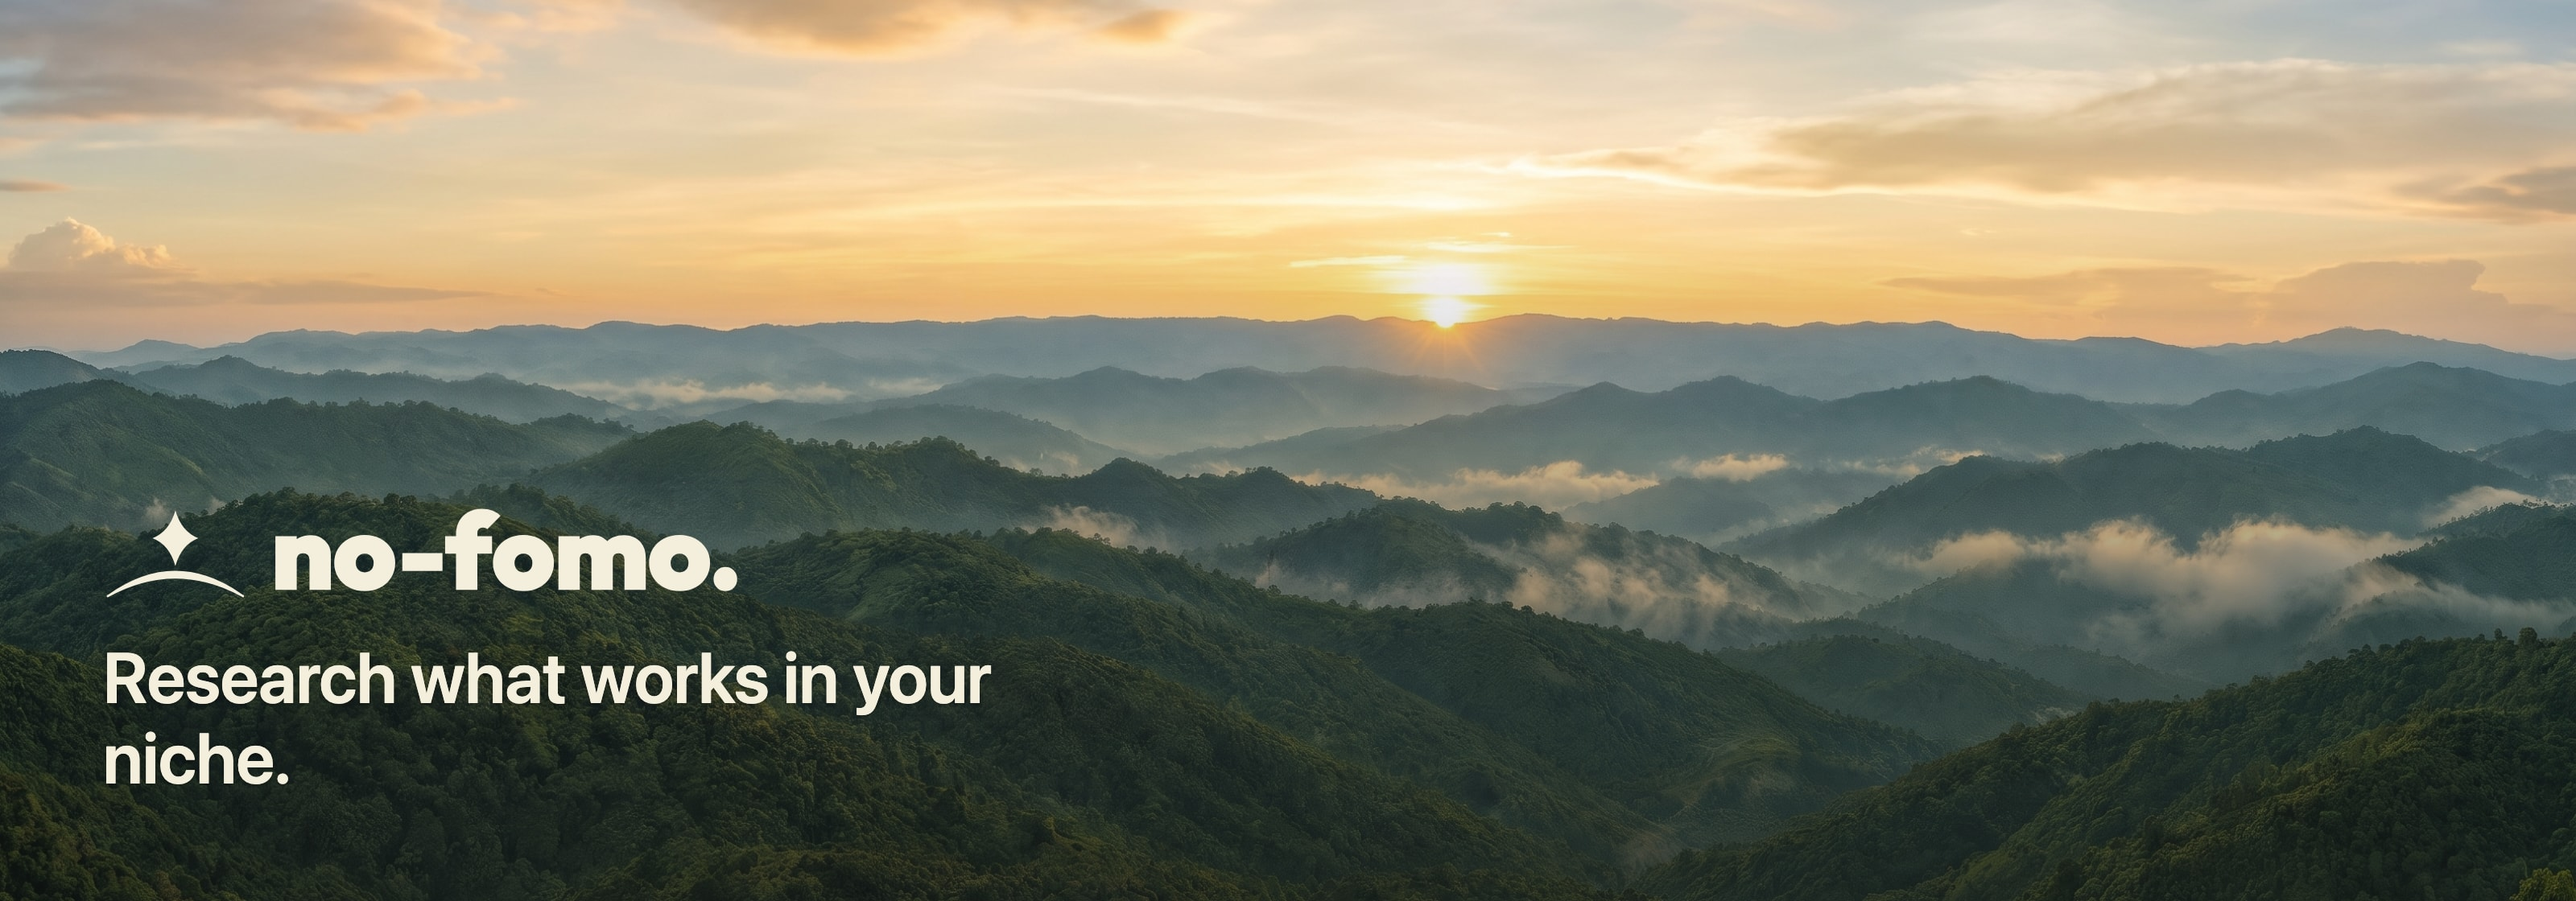
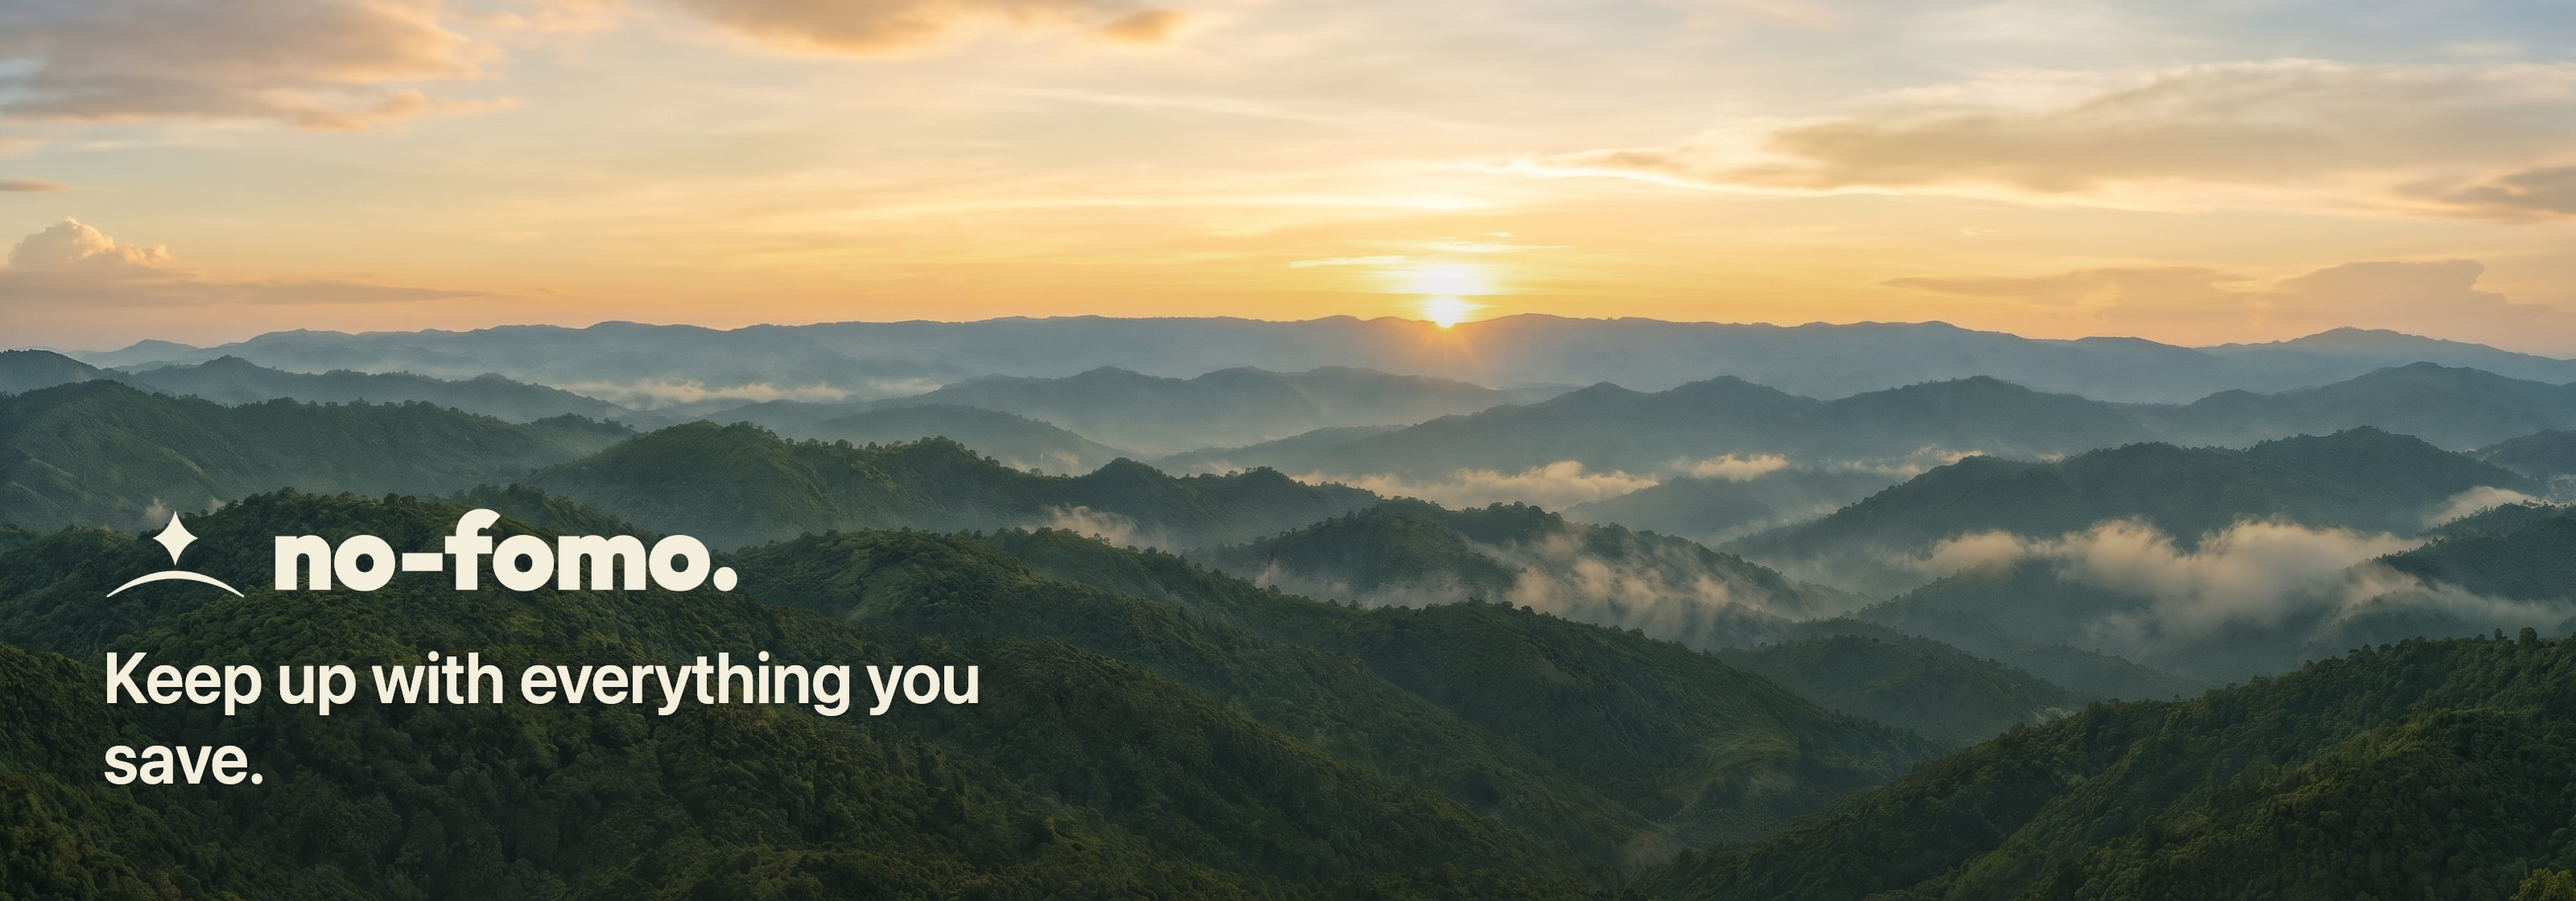
docs: the message is 'Keep up with everything you save.'
README tagline and intro, package description, runbook, banner and social preview.

Changed region(s): [[0.0312, 0.7188, 0.375, 0.8125], [0.0312, 0.8125, 0.125, 0.875]]

diff --git a/docs/RELEASE.md b/docs/RELEASE.md
@@ -89,7 +89,7 @@ Check first:
 Then, from a terminal with `gh` logged in as the org owner:
 
 ```bash
-gh repo edit no-fomo-org/no-fomo-social --description "Let AI watch the reels. Your Instagram saves and any account, turned into knowledge on your own computer." --homepage https://no-fomo.ai --enable-discussions --enable-issues --delete-branch-on-merge
+gh repo edit no-fomo-org/no-fomo-social --description "Keep up with everything you save. The Instagram reels you save, turned into notes, steps and ideas on your own computer." --homepage https://no-fomo.ai --enable-discussions --enable-issues --delete-branch-on-merge
 ```
 
 ```bash
@@ -157,7 +157,7 @@ git tag v0.1.0 && git push origin v0.1.0
 - **Category:** Productivity. **Language:** English.
 - **Description:**
 
-  no-fomo-social turns Instagram reels into notes, steps and ideas. This extension is the bridge between instagram.com and the free no-fomo-social app that runs on your computer.
+  Keep up with everything you save. no-fomo-social turns the Instagram reels you save into notes, steps and ideas. This extension is the bridge between instagram.com and the free no-fomo-social app that runs on your computer.
 
   What it does:
   • Syncs your saved posts and collections into the no-fomo-social app on your computer.

diff --git a/README.md b/README.md
@@ -2,10 +2,10 @@
   <img src=".github/assets/banner.jpg" alt="no-fomo" width="100%">
 </p>
 
-<h3 align="center">Research what works in your niche.</h3>
+<h3 align="center">Keep up with everything you save.</h3>
 
 <p align="center">
-  no-fomo-social watches Instagram reels for you and turns them into notes, steps and ideas you can use.<br>
+  You save reels faster than you can watch them. no-fomo-social watches them for you and turns each one into notes, steps and ideas you can use.<br>
   Free, open source, and it runs on your computer.
 </p>
 
